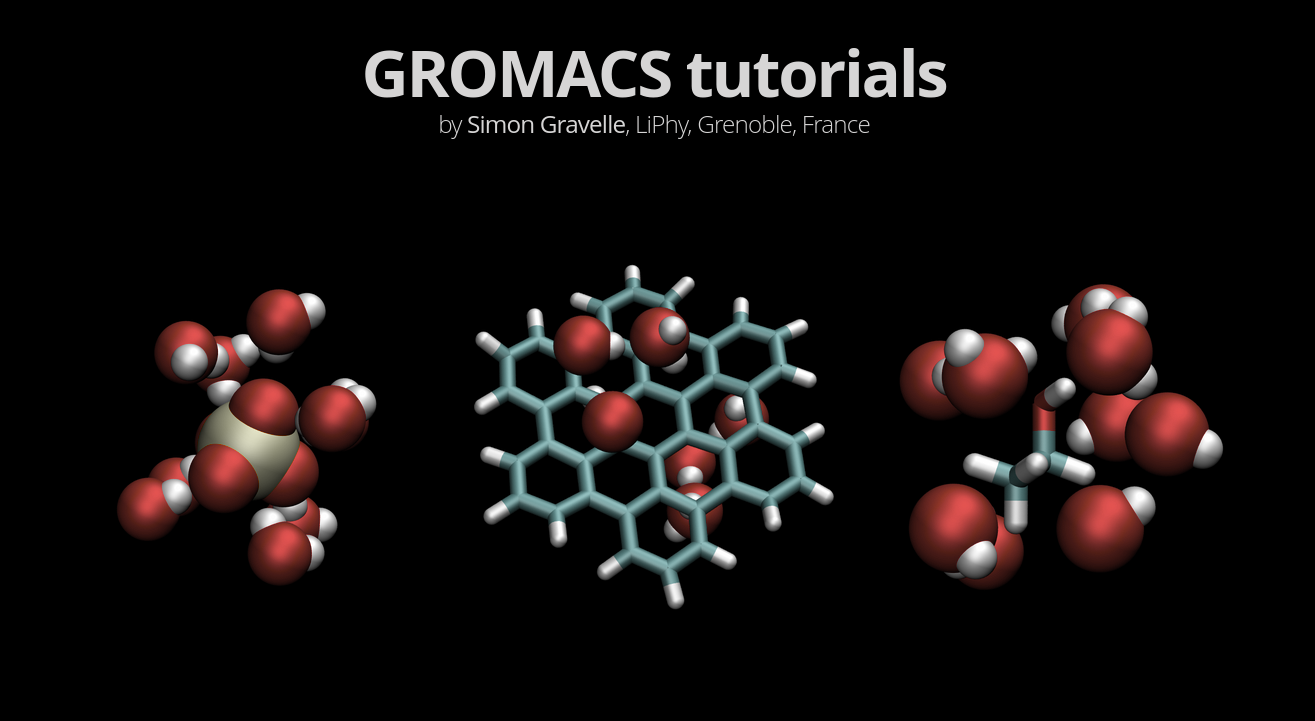
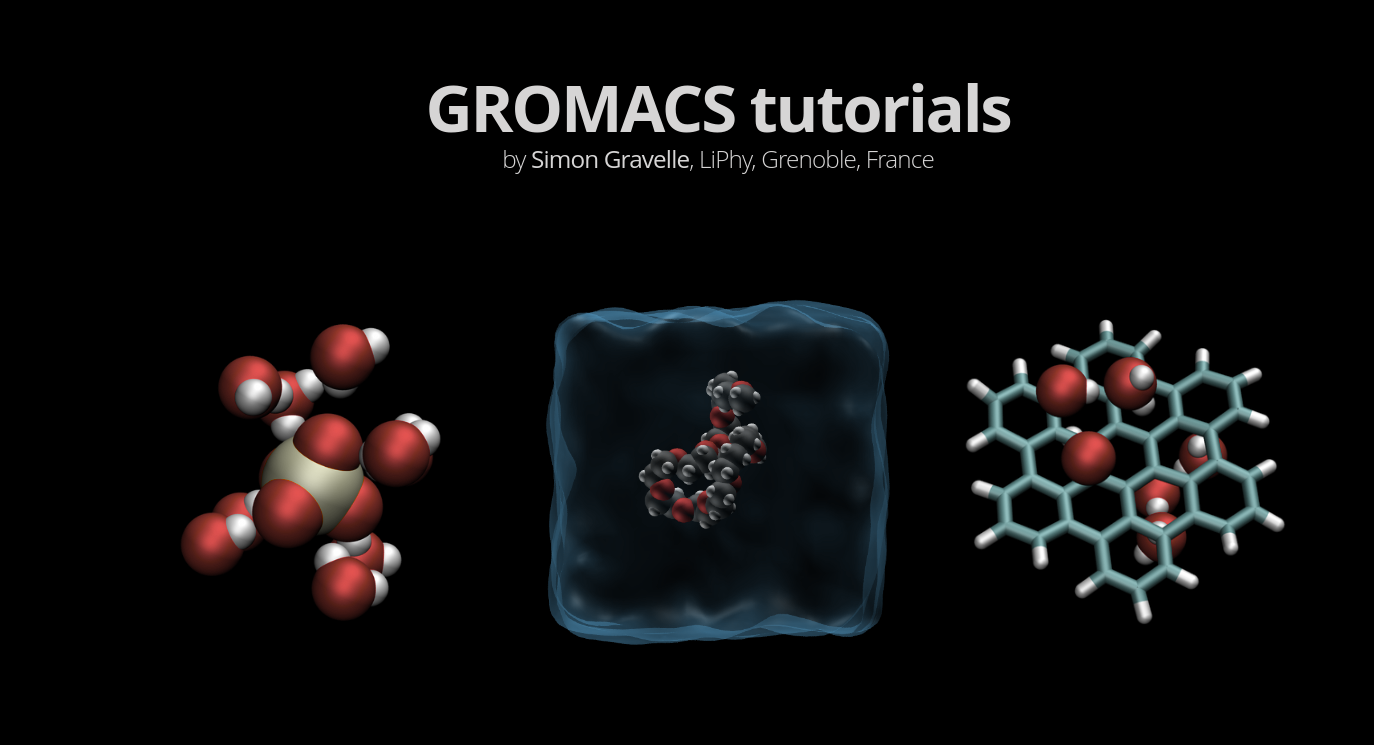
added new screenshot

diff --git a/README.md b/README.md
@@ -9,6 +9,11 @@ in the [docs/input/](docs/inputs) folder.
   <img src="docs/doc-sphinx/source/_static/screenshot_readme_gromacs_tutorials.png" width="100%" /></a>
 </p>
 
+<p float="left">
+  <a href="https://gromacstutorials.github.io/doc-sphinx/build/html/tutorials/bulksolution.html">
+  <img src="docs/doc-sphinx/source/_static/screenshot_readme_gromacs_tutorials_2.png" width="100%" /></a>
+</p>
+
 ### You noticed a mistake in one of the tutorial?
 
 You can report issue here on Github, or send me an [email](https://simongravelle.github.io/). Your feedback is always highly appreciated.
